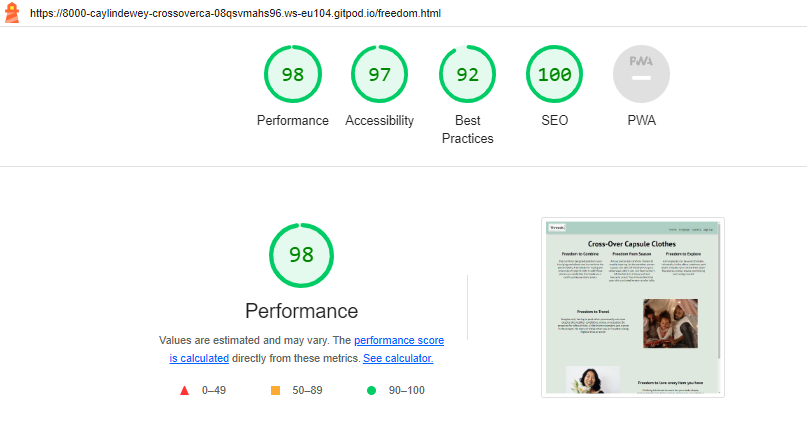
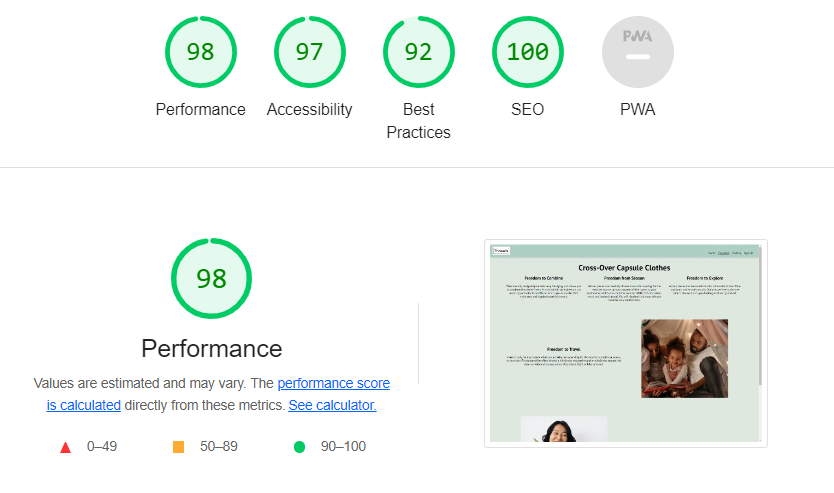
Added about section on Freedom page

diff --git a/freedom.html b/freedom.html
@@ -75,7 +75,7 @@
     <section id="info_2">
       <div id="options_2">
         <div>
-          <h3>Freedom to Travel</h3>
+          <h3>Freedom to love every item you have</h3>
           <br>
           <p>Imagine only having to pack what you actually can wear despite the weather conditions, venue, or occasion.
             Be prepared for office drinks, a hike in the mountains and a swim in the stream. No more wrinkles when you
@@ -87,19 +87,20 @@
     </section>
 
     <!-- Section Three -->
-    <section id="info_2">
-      <div id="options_2">
+    <section id="info_3">
+      <div id="options_3">
         <div> <img src="assets/images/gallery_lily_smiling_woman.webp" alt="woman in black top big smile"
             class="box_image"></div>
         <div>
-          <h3>Freedom to love every item you have</h3>
+          <h3>Collaborate with Us</h3>
           <br>
-          <p>Clothing is tailored to work for your body-shape, measurements and taste in style. Replace all your items in your cupboard with clothing you can actually wear, anywhere, anytime.</p>
+          <p>Address: 1234 Heavensent Straat, Amsterdam, The Netherlands</p>
+          <p>Email: threads@fake.com</p>
+          <p>Call: +31 6 12345678</p>
         </div>
       </div>
     </section>
-  </main>
-  <!-- Footer -->
+  </main>  <!-- Footer -->
   <footer>
     <ul id="social-networks">
       <li>

diff --git a/assets/css/style.css b/assets/css/style.css
@@ -178,11 +178,11 @@ main {
     margin: 20px auto;
 }
 
-#info_2 h2 {
+#info_2 h3 {
     padding-top: 10px;
     margin-bottom: 0px;
     text-align: center;
-    font-size: 280%;
+    font-size: 150%;
 }
 
 #options_2 {
@@ -201,21 +201,34 @@ main {
     font-size:larger
 }
 
+/** Section 3 **/
+#info_3 {
+    width: 90%;
+    margin: 20px auto;
+}
+
+#info_3 h3 {
+    padding-top: 10px;
+    margin-bottom: 0px;
+    text-align: center;
+    font-size: 150%;
+}
+
+#options_3 {
+    display: flex;
+    flex-wrap: wrap;
+}
+
 #options_3 div {
     padding: 15px;
-    text-align: right;
+    text-align: left;
     /* This will allow the screens to wrap in response to different screen sizes in a row */
     flex-basis: 200px;
     flex-grow: 1;
     margin: auto;
     line-height: 2;
-    font-size:larger';
+    font-size:larger;
 }
-
-#options_4 div {
-    text-align: left;
-}
-
 
 .box_image_2 {
     width: 15rem;

diff --git a/README.md b/README.md
@@ -233,6 +233,41 @@ Github was used to deploy this site.  The steps are as follows:
 
 
 ## Testing
+### Validator 
+
+
+<details>
+<summary>index.html
+</summary>
+
+![Home Page validation result](/assets/images/readme_validation_index_result.png)
+</details>
+<details>
+<summary>freedom.html
+</summary>
+
+![Freedom validation result](/assets/images/read_va)
+</details>
+<details>
+<summary>freedom.html
+</summary>
+
+![Gallery validation result](/assets/images/
+</details>
+<details>
+<summary>Gallery.html
+</summary>
+
+![Application Received validation result](/assets/images/
+</details>
+<details>
+<summary>style.css
+</summary>
+
+![CSS validation result](/assets/images/
+</details>
+
+
 ### Workflow
 At various stages of the project, feedback was gained and changes made to:
 - Navigation item Freedom was initially a palette tab. It was recommended that I focus on user experience instead of a sales pitch. I was quote with the idea that if you want someone to sail with you, you need to get them to fall inlove with open waters and not pitch the actual ship tasks to them.
